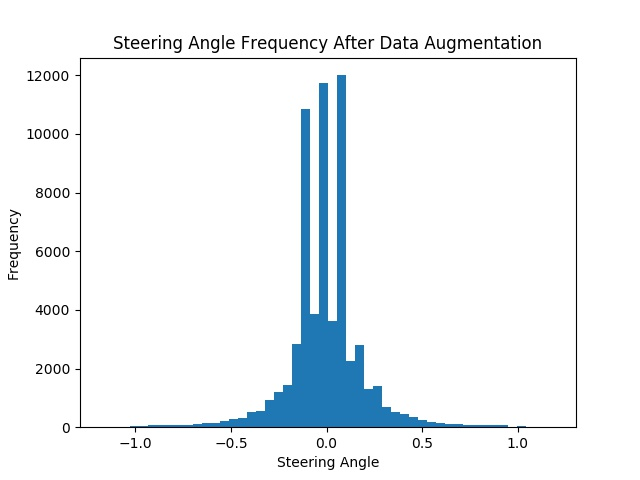
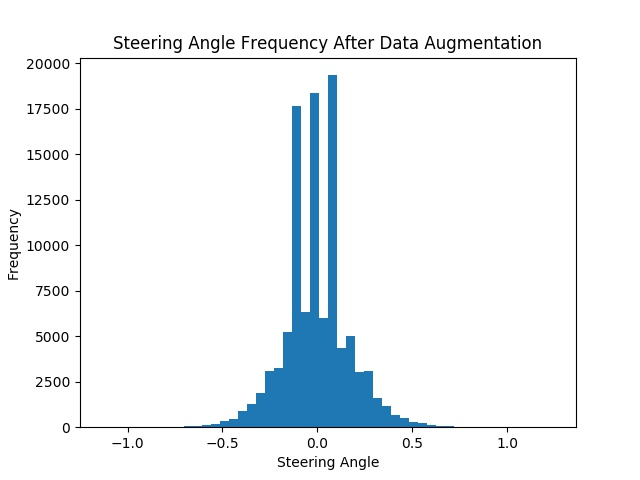
Tune hyperparameters and add frequency report

diff --git a/dataAugment.py b/dataAugment.py
@@ -2,10 +2,10 @@ import cv2
 import random
 import numpy as np
 
-GAMMA_COR_CHANCE = 0.4
+GAMMA_COR_CHANCE = 0.3
 FLIP_CHANCE      = 0.5
-SHEAR_CHANCE     = 0.3
-SHEAR_RANGE      = 35
+SHEAR_CHANCE     = 0.4
+SHEAR_RANGE      = 90
 
 def happens(prob):
     """ Trigger a random event to happen
@@ -19,7 +19,7 @@ def happens(prob):
     chance = random.uniform(0,1)
     return chance <= prob
 
-def rand_gamma(image, steering, max=2.5, min=0.3, prob=GAMMA_COR_CHANCE):
+def rand_gamma(image, steering, max=2.5, min=0.5, prob=GAMMA_COR_CHANCE):
     """Apply a gamma correction to the image
     
     Keyword Arguments:

diff --git a/behaviorClone.py b/behaviorClone.py
@@ -12,9 +12,9 @@ CSV_FILENAME    = '/driving_log.csv'
 
 ACTIVATION_FUNC = 'tanh'
 LOSS_FUNC       = 'mse'
-LEARNING_RATE   = 1e-3
+LEARNING_RATE   = 1e-4
 BATCH_SIZE      = 512
-NUM_EPOCH       = 6
+NUM_EPOCH       = 12
 
 # Resolve plt backend issues in VM
 plt.switch_backend('agg')
